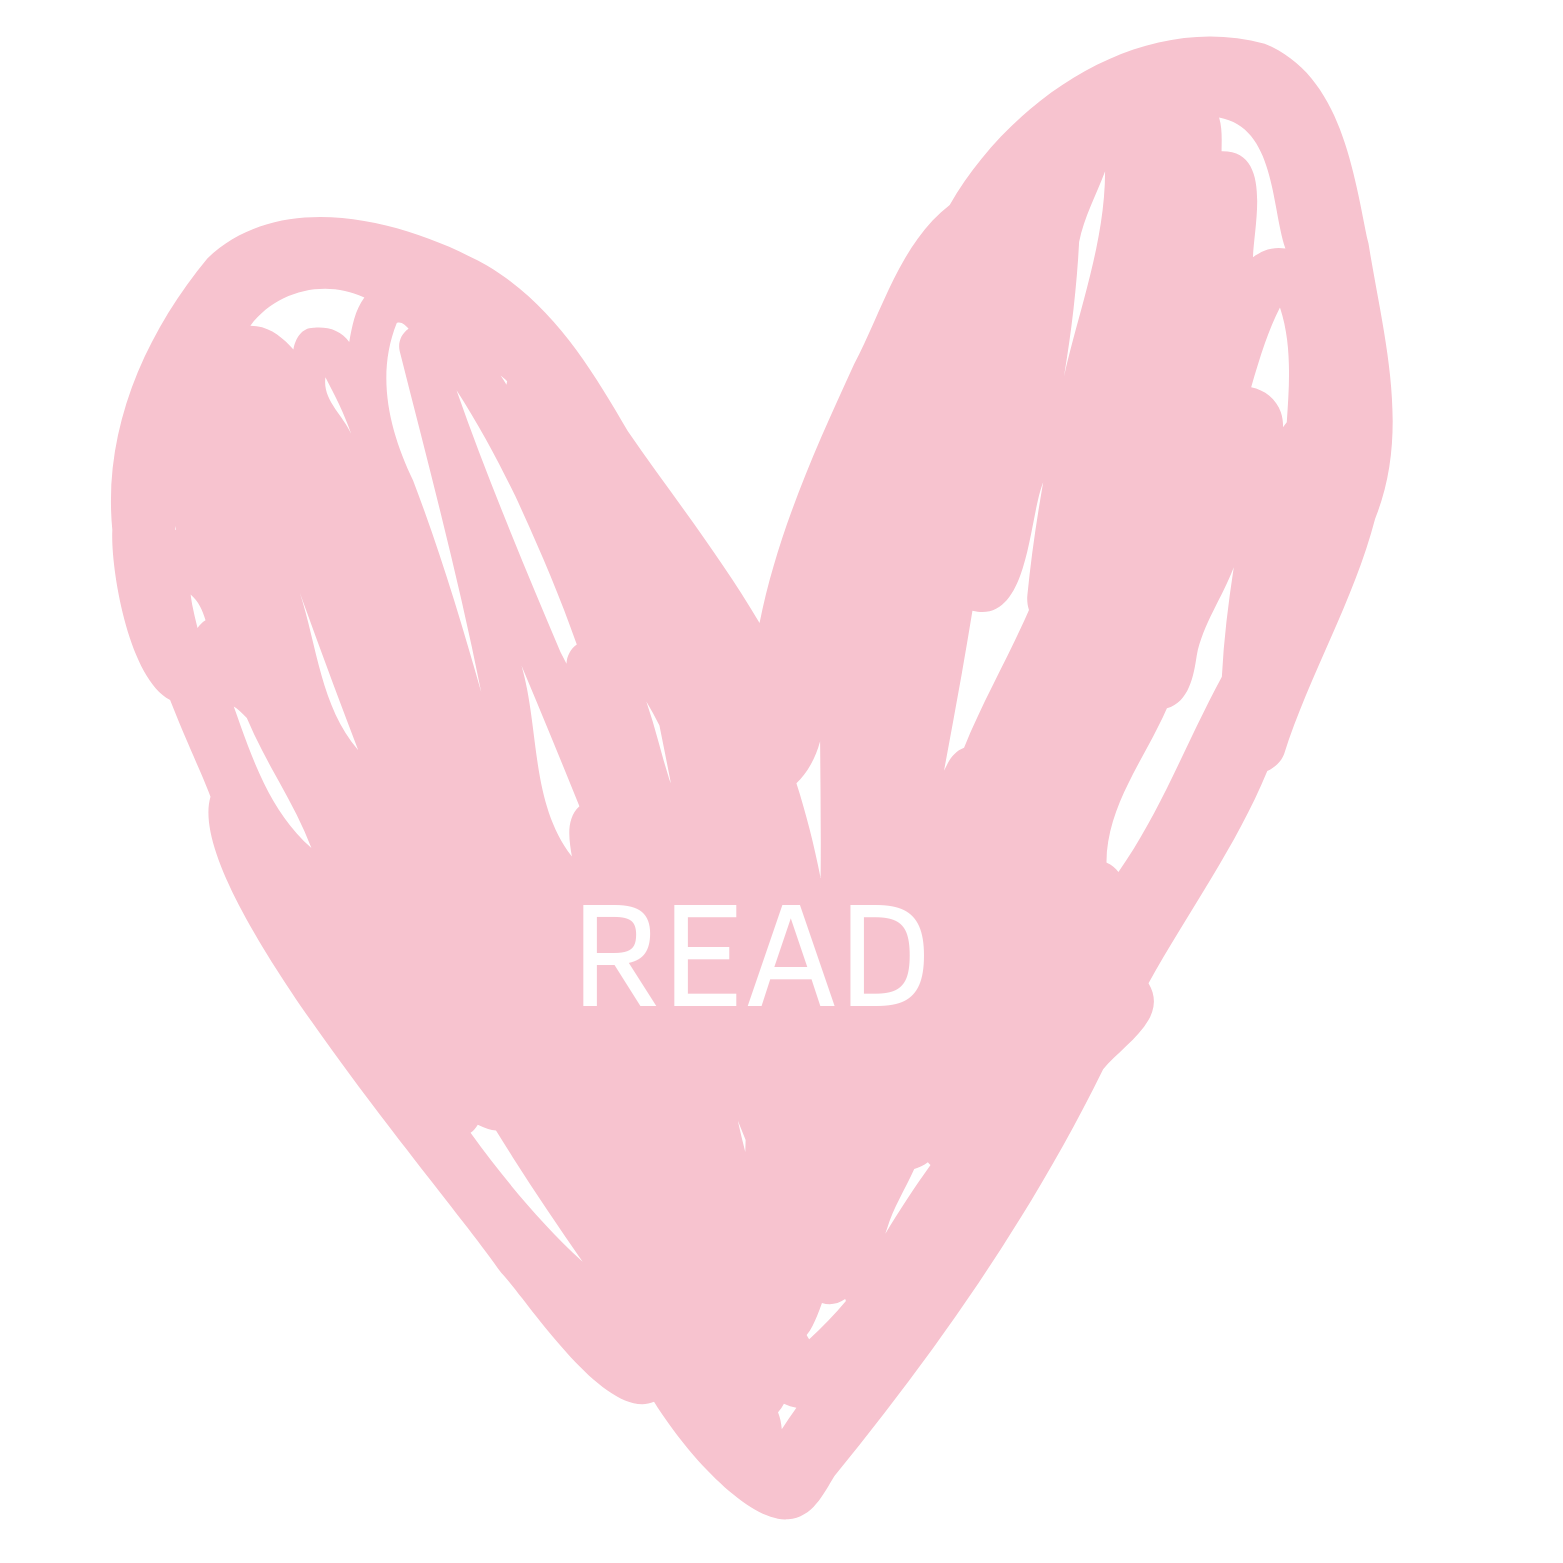
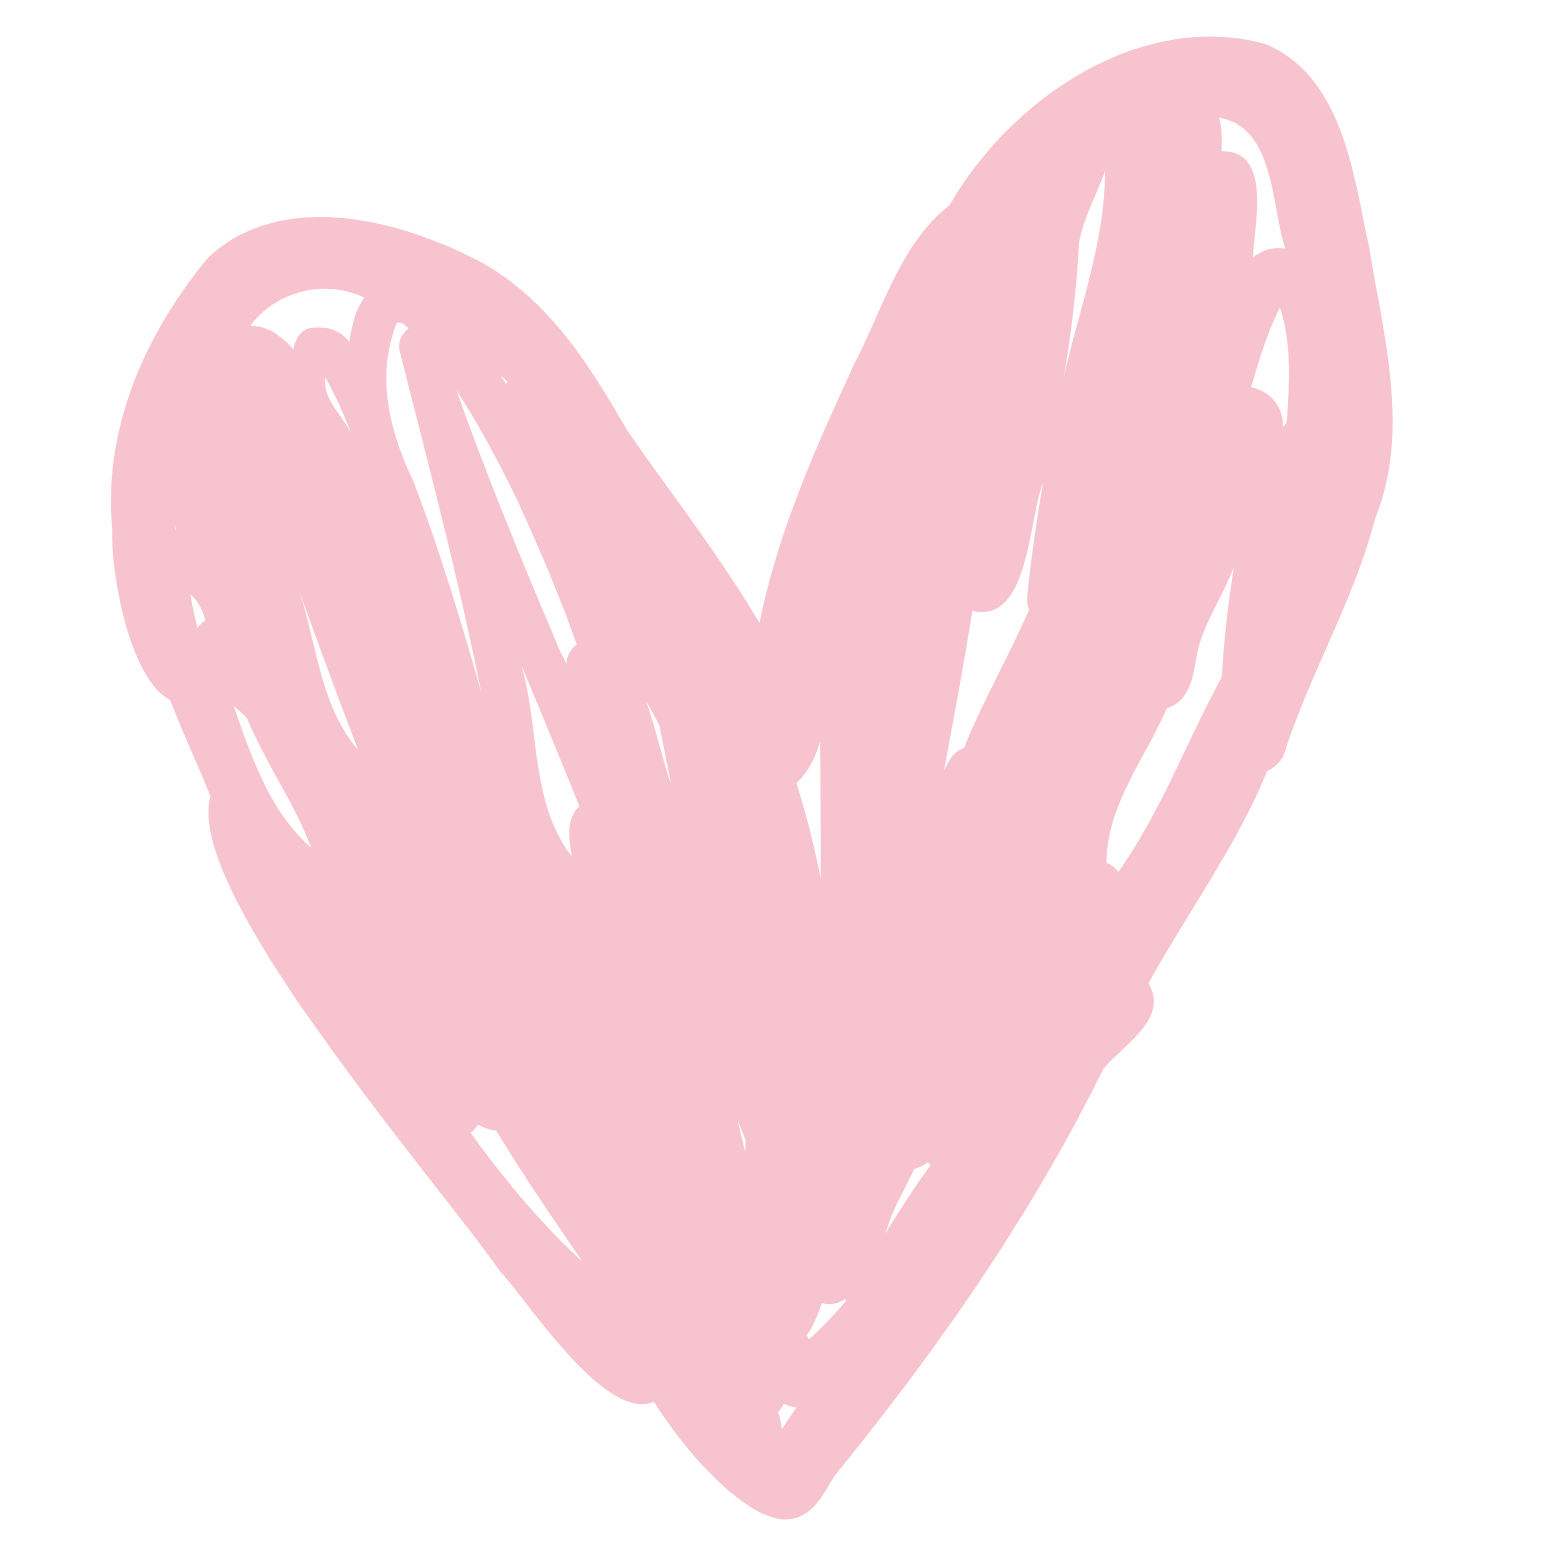
update button designs

Changed region(s): [[0.3685, 0.5528, 0.6142, 0.6449]]

diff --git a/src/style.css b/src/style.css
@@ -172,7 +172,10 @@ body {
 
 /* ---------- Heart toggle buttons (assets/heart-1-*.png, heart-2-*.png) ----------
    Each button swaps between its own red (active) and pink (inactive) image
-   in app.js's setMode() — exactly one heart is red at a time. Sized with
+   in app.js's setMode() — exactly one heart is red at a time. The images
+   are now plain (no baked-in text — see assets/buttons/), with a label
+   below each in a flex column, the same arrangement (and the same
+   .refresh-label class/styling) as the read-next button. Sized with
    clamp() so it shrinks on narrow viewports instead of colliding with
    .brand on the opposite corner. */
 .tab-btn.key-btn {
@@ -181,13 +184,16 @@ body {
   padding: 0;
   cursor: pointer;
   -webkit-tap-highlight-color: transparent;
-  height: clamp(60px, calc(16 * var(--vw, 1vw)), 112px);
+  display: flex;
+  flex-direction: column;
+  align-items: center;
+  gap: 6px;
   transition: transform 0.12s ease;
 }
 
 .tab-btn.key-btn img {
   display: block;
-  height: 100%;
+  height: clamp(60px, calc(16 * var(--vw, 1vw)), 112px);
   width: auto;
 }
 
@@ -699,7 +705,7 @@ body.mode-read .letter-textarea { display: none; }
 
   /* Hearts read as small at the old clamp() — bigger minimum and scaling
      factor here (mobile only; desktop keeps the smaller clamp above). */
-  .tab-btn.key-btn {
+  .tab-btn.key-btn img {
     height: clamp(80px, calc(20 * var(--vw, 1vw)), 130px);
   }
 

diff --git a/index.html b/index.html
@@ -22,10 +22,12 @@
 
   <nav class="tabs" aria-label="Read or write a letter">
     <button id="tab-read" class="tab-btn key-btn is-active" type="button">
-      <img id="tab-read-img" src="assets/buttons/heart-1-red.png" alt="Read" width="1563" height="1563" />
+      <img id="tab-read-img" src="assets/buttons/heart-1-red.png" alt="" width="1563" height="1563" />
+      <span class="refresh-label">read</span>
     </button>
     <button id="tab-write" class="tab-btn key-btn" type="button">
-      <img id="tab-write-img" src="assets/buttons/heart-2-pink.png" alt="Write" width="1563" height="1563" />
+      <img id="tab-write-img" src="assets/buttons/heart-2-pink.png" alt="" width="1563" height="1563" />
+      <span class="refresh-label">write</span>
     </button>
     <!-- Mobile-only: same refresh action as #refresh-button below, just
          placed in the top row next to write instead of below the
